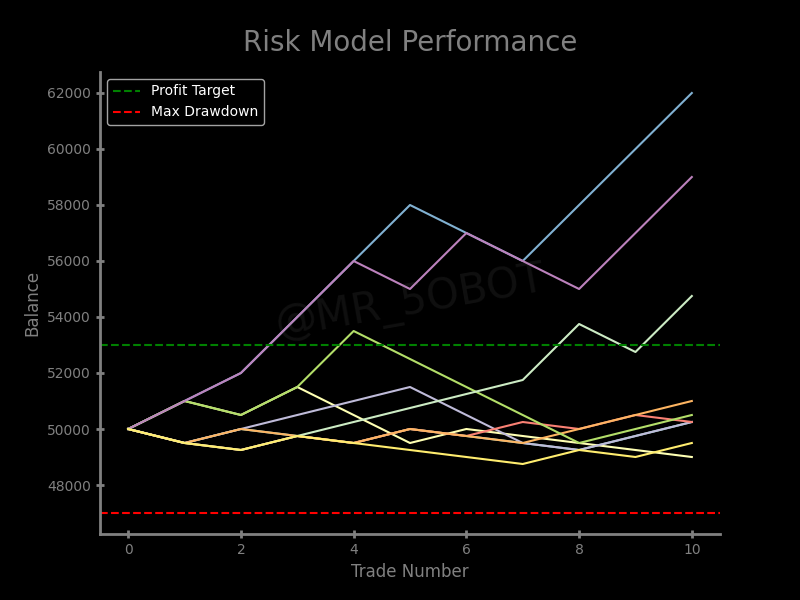
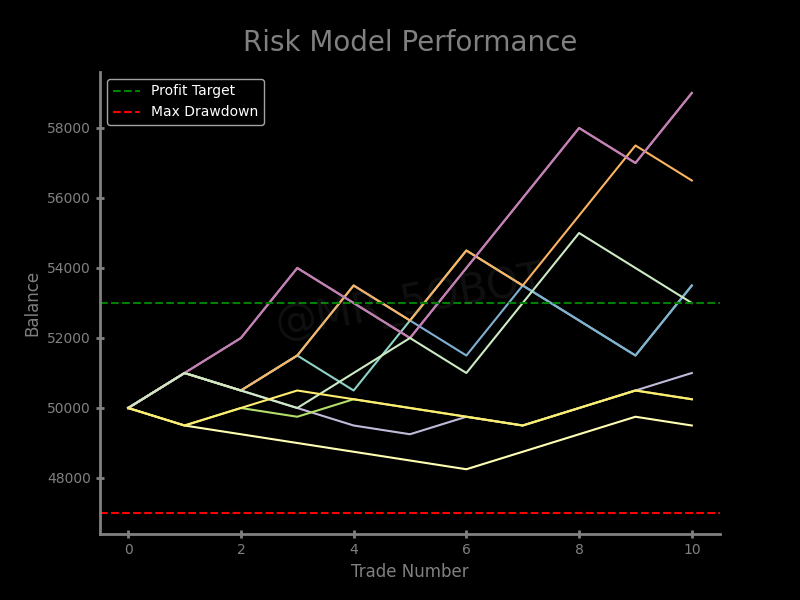
some refinements

diff --git a/expirements.py b/expirements.py
@@ -14,26 +14,37 @@ logging.basicConfig(level=logging.INFO)  # Set logging level
 # reward_to_risk = float(input("Enter reward to risk ratio (e.g., 2.0 for 2:1): "))
 # trades_to_pass = int(input("Enter number of trades needed to pass: "))
 
-# Inputs
+# increase_input = input("increase risk after x% :")
+# increase_input = float(increase_input)
+# increase_check = initial_balance * (increase_input / 100) + initial_balance
+#
+# derease_input = input("decrease risk after x% :")
+# derease_input = float(derease_input)
+# increase_check = initial_balance * (1 - derease_input / 100)
+# decrease_check = initial_balance * 0.98
+
+# hardcoded inputs
 initial_balance = 50000
 # max_daily_drawdown = 0.03
 max_overall_drawdown = 0.06
 profit_target = 0.06
 risk_per_trade = 0.01
 win_rate = 0.55
-reward_to_risk = 2.0  # 2:1 RR
+reward_to_risk = 2.0
 trades_to_pass = 10
+
+# the model risk controllers
+increase_risk = 0.02
+increase_check = initial_balance * 1.03
+decrease_risk = 0.005
+decrease_check = initial_balance * 0.99
 
 
 # function to control risk dynamiclly
 def risk_reducer(virtual_balance, current_risk):
-    increase_check = initial_balance * 1.03
-    decrease_check = initial_balance * 0.98
     if virtual_balance >= increase_check:
-        increase_risk = 0.02
         return increase_risk
     elif virtual_balance <= decrease_check:
-        decrease_risk = 0.005
         return decrease_risk
     else:
         return current_risk
@@ -70,8 +81,8 @@ def simulate_trades():
 
             for trade in range(trades_to_pass):
                 current_risk = risk_reducer(virtual_balance, current_risk)
-                # Calculate absolute risk amount
                 risk_amount = current_risk * initial_balance
+
                 # Simulate trade outcome
                 if random.random() < win_rate:
                     virtual_balance += reward_to_risk * risk_amount
@@ -81,20 +92,17 @@ def simulate_trades():
                 # Track drawdowns
                 sim_drawdown = max_dd_sim(simulation_data, initial_balance)
 
-                # Store simulation data
-                simulation_data["balances"].append(virtual_balance)
-                logging.info(f"Trade {trade + 1} - Balance: {virtual_balance}")
-
                 # Check for violations
                 if sim_drawdown >= max_overall_drawdown * initial_balance:
                     # logging.info(f"balance reached max dd at trade: {trade + 1}")
                     pass
-                    # break
                 elif virtual_balance >= initial_balance * (1 + profit_target):
                     # logging.info(f"balance reached target at trade: {trade +1}")
                     pass
-                    # break
 
+                # Store simulation data
+                simulation_data["balances"].append(virtual_balance)
+                logging.info(f"Trade {trade + 1} - Balance: {virtual_balance}")
                 simulation_data["risks"].append(current_risk)
                 simulation_data["drawdowns"].append(sim_drawdown)
                 # logging.info(f"Ending trade {trade + 1}")
@@ -117,9 +125,6 @@ def simulate_trades():
 
     except Exception as e:
         logging.error(f"An error occurred: {e}")
-
-
-logging.basicConfig(level=logging.INFO)  # Set logging level
 
 
 def plotting(results):
@@ -145,14 +150,30 @@ def plotting(results):
         # Update the overall maximum drawdown
         if worst_dd_value > overall_max_dd:
             overall_max_dd = worst_dd_value
-
-    # Add a single legend entry for the overall max drawdown
-    # ax.plot(
-    #     [], [],  # Empty plot (no data)
-    #     color="yellow",
-    #     label=f"Overall Max DD: {overall_max_dd * 100:.2f}%",
-    # )
-    # Add profit target and max drawdown reference lines
+        # check many passes
+        # Flags to track if the conditions have been logged
+        # profit_target_logged = False
+        # max_drawdown_logged = False
+        # for balance in data["balances"]:
+        #     if not profit_target_logged and balance >= (
+        #         initial_balance * (1 + profit_target)
+        #     ):
+        #         logging.info(f"[Sim {sim}] has passed the profits target.")
+        #         # Add a single legend entry for the overall max drawdown
+        #         ax.plot(
+        #             [],
+        #             [],  # Empty plot (no data)
+        #             color="violet",
+        #             label=f"[Sim {sim +1}]: target hit",
+        #         )
+        #         profit_target_logged = True  # Mark as logged
+        #         break  # Exit the loop after logging
+        #     if not max_drawdown_logged and balance <= (
+        #         initial_balance * (1 - max_overall_drawdown)
+        #     ):
+        #         logging.info(f"[Sim {sim}] has hit the max drawdown.")
+        #         max_drawdown_logged = True  # Mark as logged
+        #         break  # Exit the loop after logging
 
     ax.axhline(
         initial_balance * (1 + profit_target),
